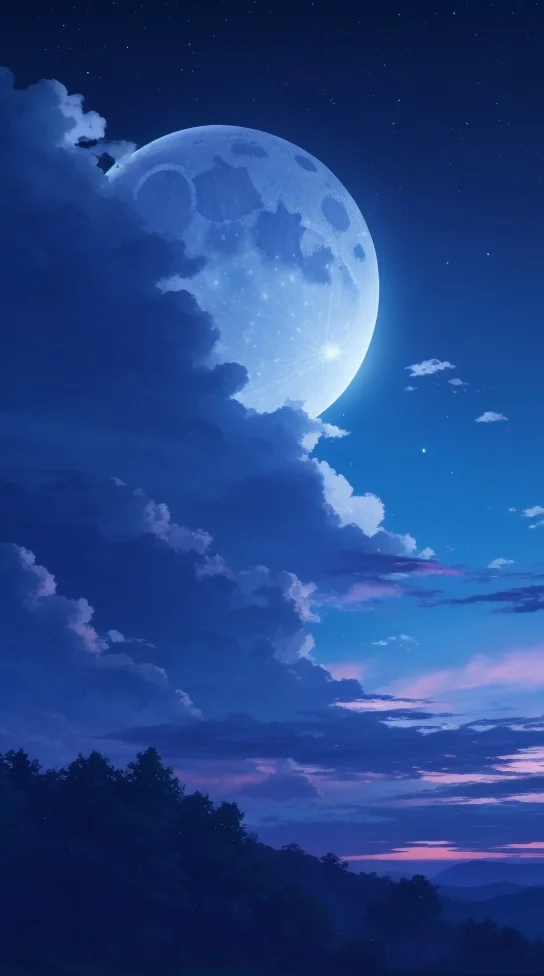
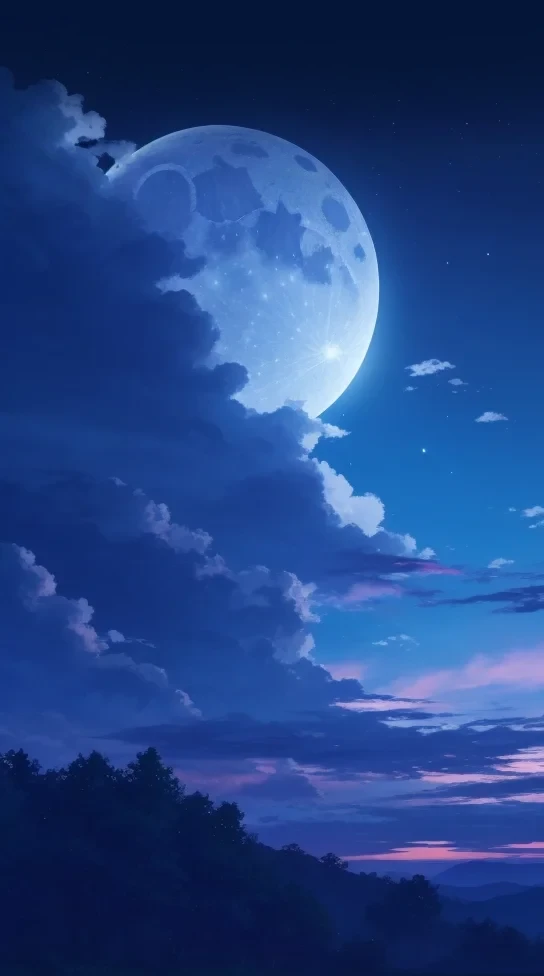
Edited Mobile images top color to match status bar

Changed region(s): [[0.0312, 0.0615, 0.1875, 0.1537], [0.2812, 0.123, 0.5312, 0.1537], [0.0, 0.0615, 0.0312, 0.0922]]

diff --git a/src/components/React/CoverImage.tsx b/src/components/React/CoverImage.tsx
@@ -38,25 +38,25 @@ const CoverImage = ({ background }: Props) => {
     }
 
     const M_Colors: ColorType = {
-        "01d": "#035cf4",
-        "01n": "#021549",
-        "02d": "#0146e7",
-        "02n": "#051438",
-        "03d": "#054faf",
-        "03n": "#0f1245",
-        "04d": "#0b3886",
+        "01d": "#0253f0",
+        "01n": "#031649",
+        "02d": "#0146e9",
+        "02n": "#041538",
+        "03d": "#0650b0",
+        "03n": "#0c0e3d",
+        "04d": "#103785",
         "04n": "#020b44",
-        "09d": "#314766",
-        "09n": "#021732",
-        "10d": "#232d37",
-        "10n": "#243749",
+        "09d": "#2a3e5e",
+        "09n": "#021933",
+        "10d": "#aaaeb4",
+        "10n": "#051728",
         "11d": "#1c2b5f",
-        "11n": "#162d61",
-        "13d": "#8fa6c3",
-        "13n": "#10325b",
-        "50d": "#3593e1",
-        "50n": "#0e2e41",
-        "default": "#002bc5",
+        "11n": "#112552",
+        "13d": "#87a6c8",
+        "13n": "#11335c",
+        "50d": "#3492e0",
+        "50n": "#0d2e41",
+        "default": "#60a5fa",
     }
 
     useEffect(() => {
